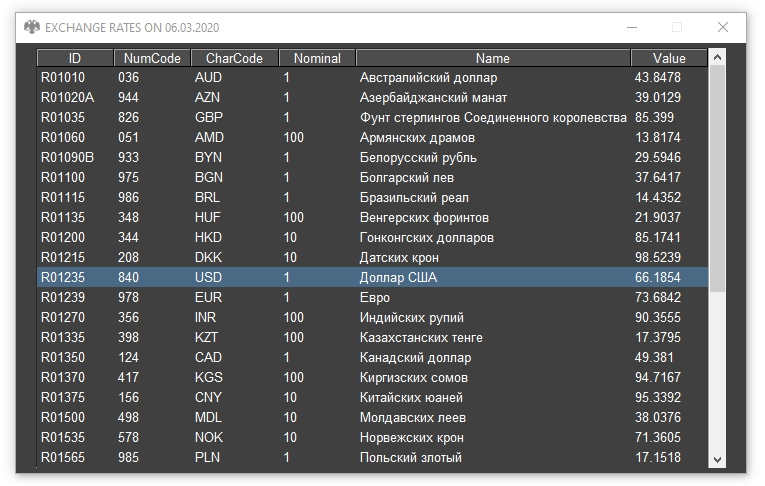
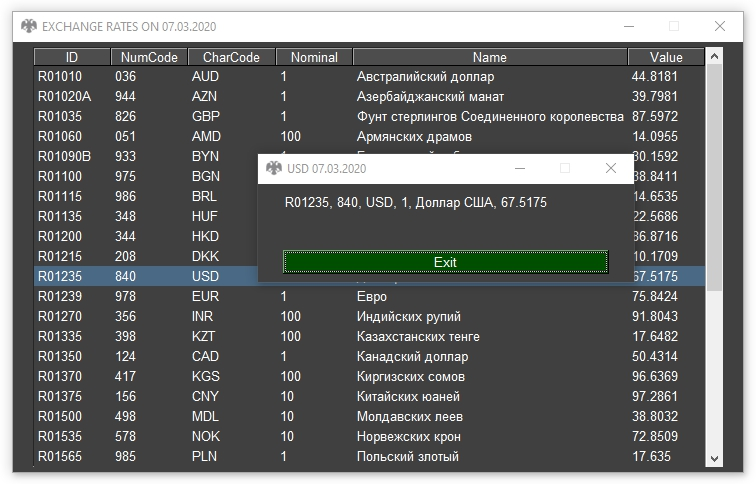
windows click

Changed region(s): [[0.0, 0.0, 1.0, 0.9917], [0.3651, 0.7438, 0.3955, 0.9298], [0.3651, 0.6198, 0.3955, 0.7128]]

diff --git a/cbr/cbrGUI.py b/cbr/cbrGUI.py
@@ -67,13 +67,22 @@ def main():
                 tooltip=('This is a table').upper())]]
     # ------ Create Window ------
     window = sg.Window(('Exchange rates on ').upper() + cur['DATE'], layout, icon = favicon)
+    w2_active = False
     while True:
-        event, values = window.read()
+        event, values = window.read(timeout=100)
         if event in (None, '_cansel_'):   # if user closes window or clicks cancel
             break
-        if event == '-TABLE-':
-            p(rows[values['-TABLE-'][0]])
-
+        if not w2_active and event == '-TABLE-':
+            w2_active = True
+            r = [ str(x) for x in rows[values['-TABLE-'][0]] ]
+            #p(r)
+            l2 = [[sg.Text(", ".join(r), size=(40, 3))],[sg.Button('Exit', size=(40, 1), key='_exit_')]]
+            w2 = sg.Window(r[2] + ' ' + cur['DATE'], l2, icon = favicon)
+        if w2_active:
+            ev2, vals2 = w2.read(timeout=100)
+            if ev2 is None or ev2 == '_exit_':
+                w2_active  = False
+                w2.close()
     window.close()
 
 if __name__ == '__main__':

diff --git a/coun-files/countFilesGUI.py b/coun-files/countFilesGUI.py
@@ -46,7 +46,7 @@ def correct_encoding(path):
 def main():    
     favicon = "icon\\favicon.ico" # the icon from windows
     expansion = '.php, .less, .scss' # file extension
-    sg.theme('DarkAmber')   # Add a touch of color
+    sg.theme('Dark')   # Add a touch of color
     # Menu Definition
     menu_def = [[LF['CF_MENU_FILE'], [LF['CF_MENU_LANG'], ['EN','RU'], LF['CF_MENU_EXIT']+'::_exit_']],[LF['CF_MENU_HELP'], LF['CF_MENU_ABOUT_LINK']+'::_about_']]
     # All the stuff inside your window.
